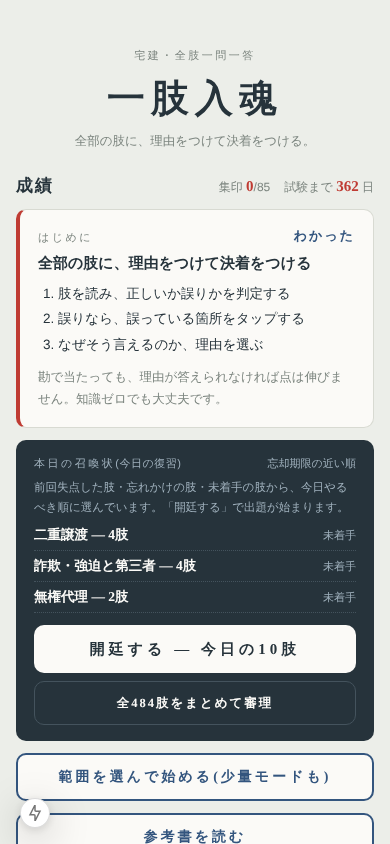
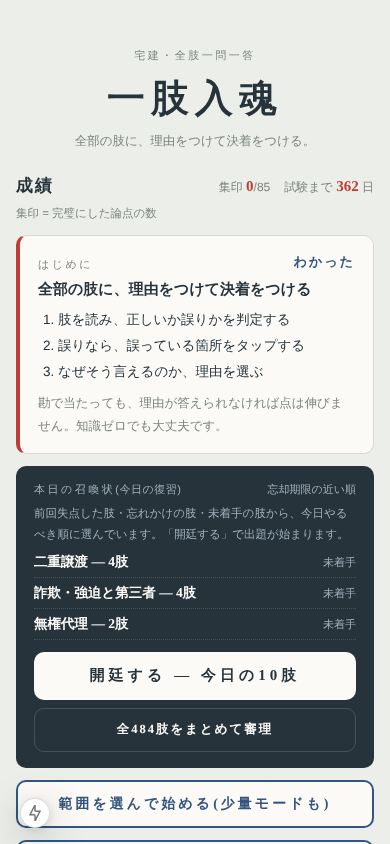
導線: 集印の説明を初出の成績ヘッダー直下へ移し、開廷するの確認を全体表示にする (Refs #523)
CodeRabbit の指摘への対応。
- 「集印 = 完璧にした論点の数」を、検地帳の凡例の下から、集印が初めて出る成績ヘッダーの直下へ移す。
- E2E で「開廷する」が、はじめの画面(390x844)に全体入ること(ratio: 1)を確認する。
- 変更後のスクリーンショットを撮り直す。

Claude-Session: https://claude.ai/code/session_01SB55BcdE9hw2S2mB28R3do

Changed region(s): [[0.0308, 0.2464, 0.9846, 1.0], [0.0308, 0.2464, 0.0923, 0.3081]]

diff --git a/app/page.tsx b/app/page.tsx
@@ -603,6 +603,16 @@ export default function Home() {
             </span>
           </div>
         </div>
+        <p
+          style={{
+            margin: "-6px 0 12px",
+            fontSize: 11.5,
+            color: MUTED,
+            lineHeight: 1.8,
+          }}
+        >
+          集印 = 完璧にした論点の数
+        </p>
 
         {!loaded ? (
           <div
@@ -1036,16 +1046,6 @@ export default function Home() {
                   <span>免 = {MENJO_LABEL}</span>
                 </div>
               </div>
-              <p
-                style={{
-                  margin: "-4px 0 12px",
-                  fontSize: 11.5,
-                  color: MUTED,
-                  lineHeight: 1.8,
-                }}
-              >
-                集印 = 完璧にした論点の数
-              </p>
 
               <div
                 style={{ display: "flex", flexDirection: "column", gap: 14 }}

diff --git a/e2e/glossary.spec.ts b/e2e/glossary.spec.ts
@@ -25,5 +25,5 @@ test("成績0件: 開廷するがはじめの画面(390x844)に入る", async ({
 
   await expect(
     page.getByRole("button", { name: /^開廷する/ }),
-  ).toBeInViewport();
+  ).toBeInViewport({ ratio: 1 });
 });
